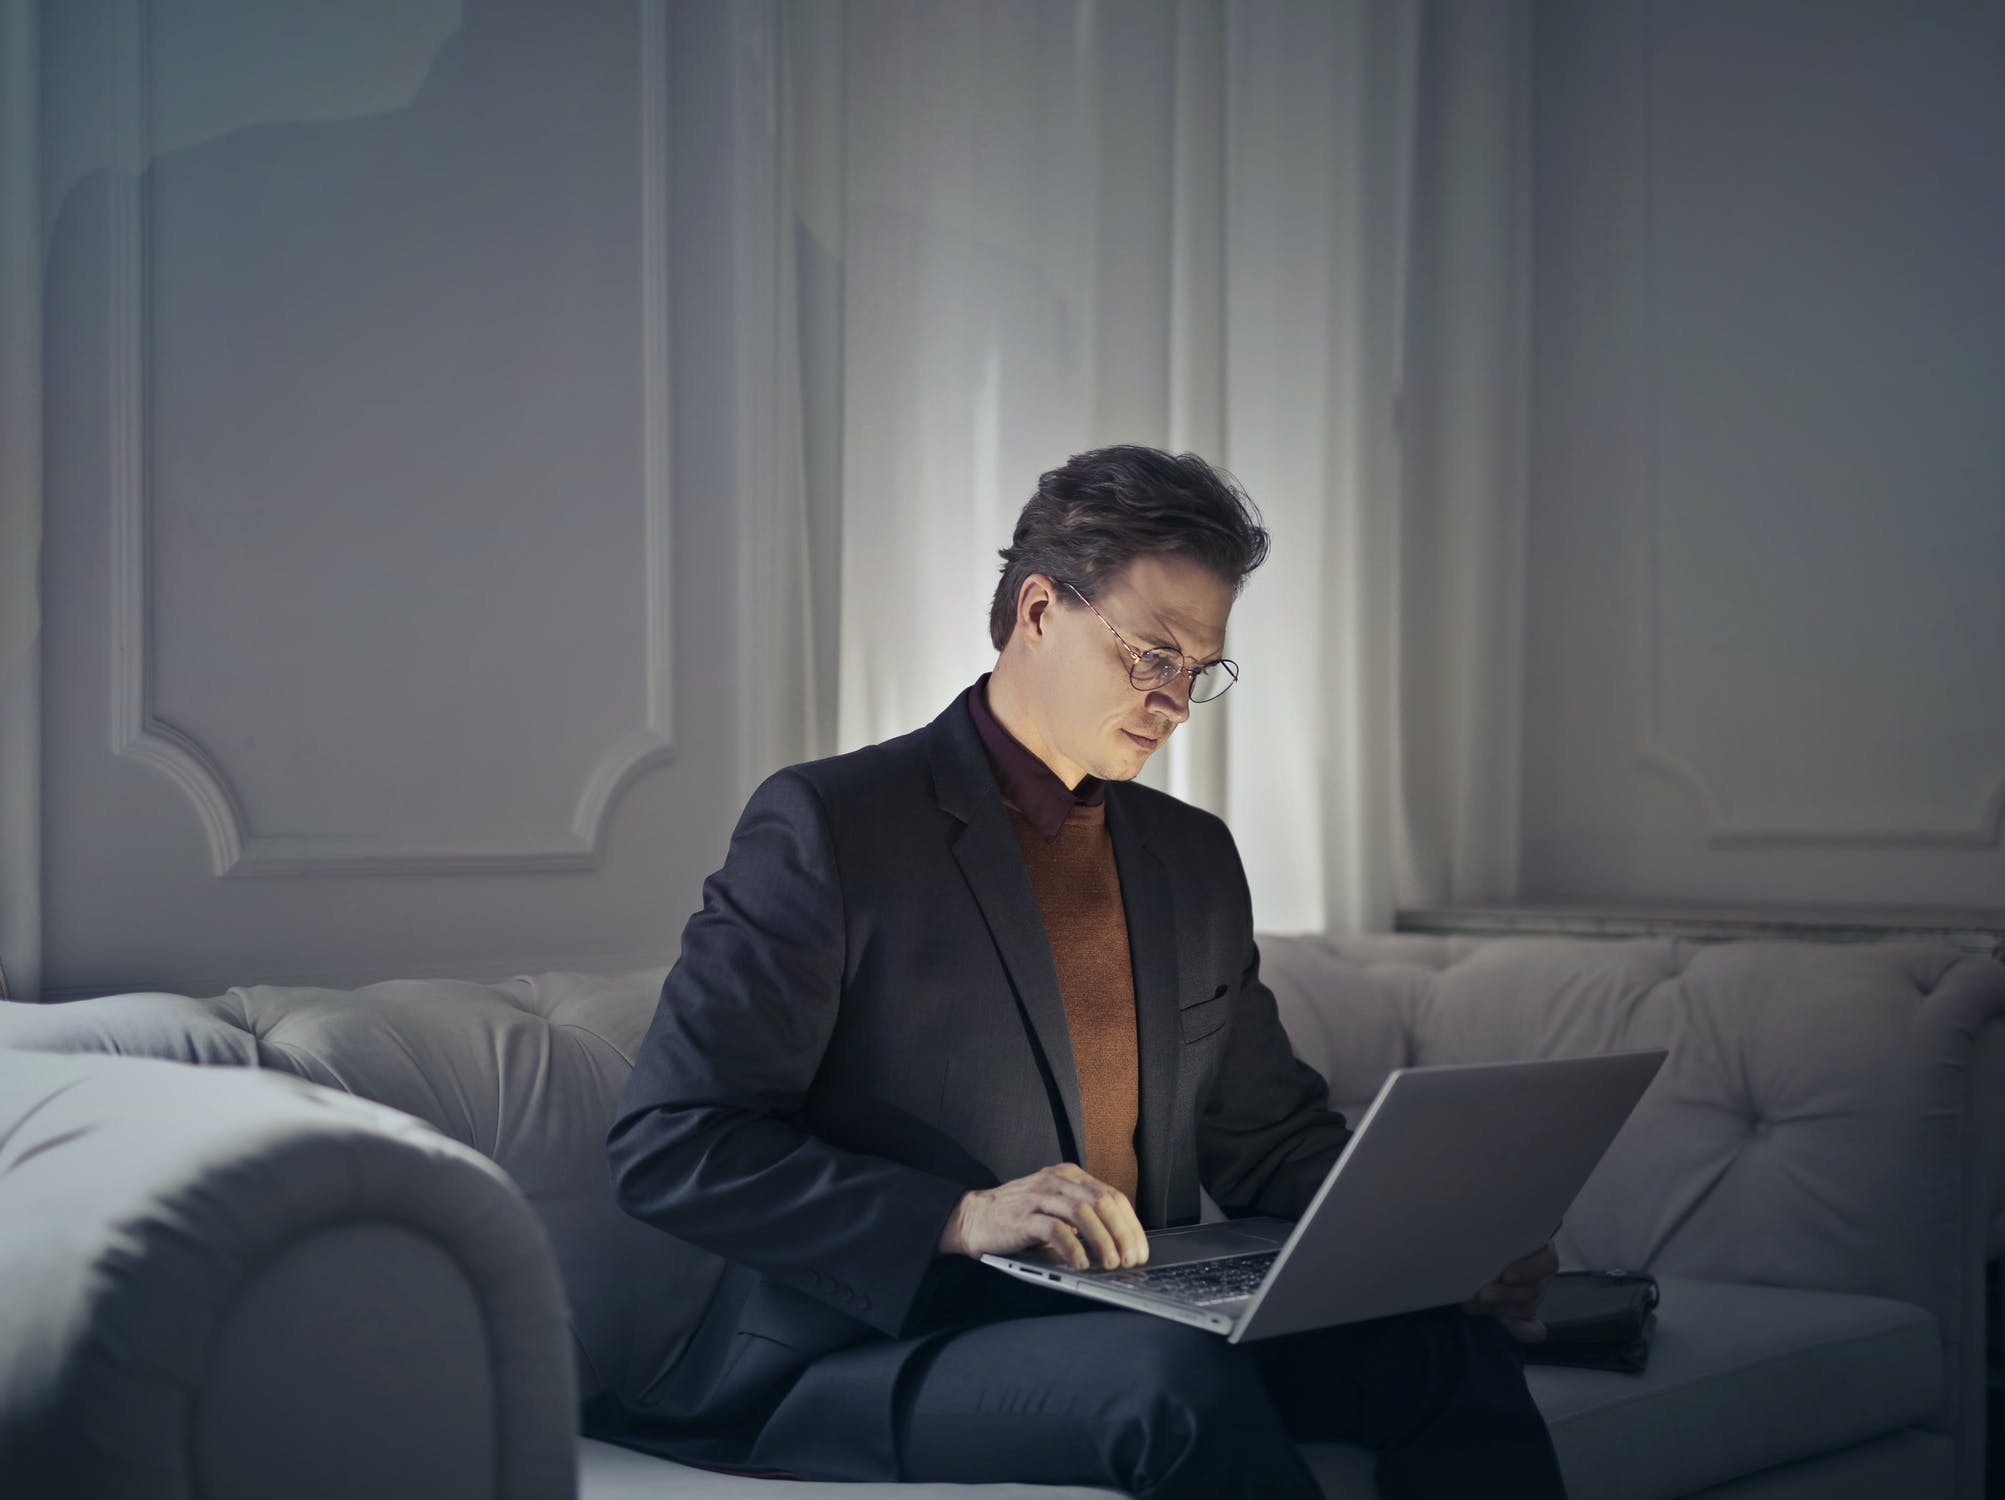
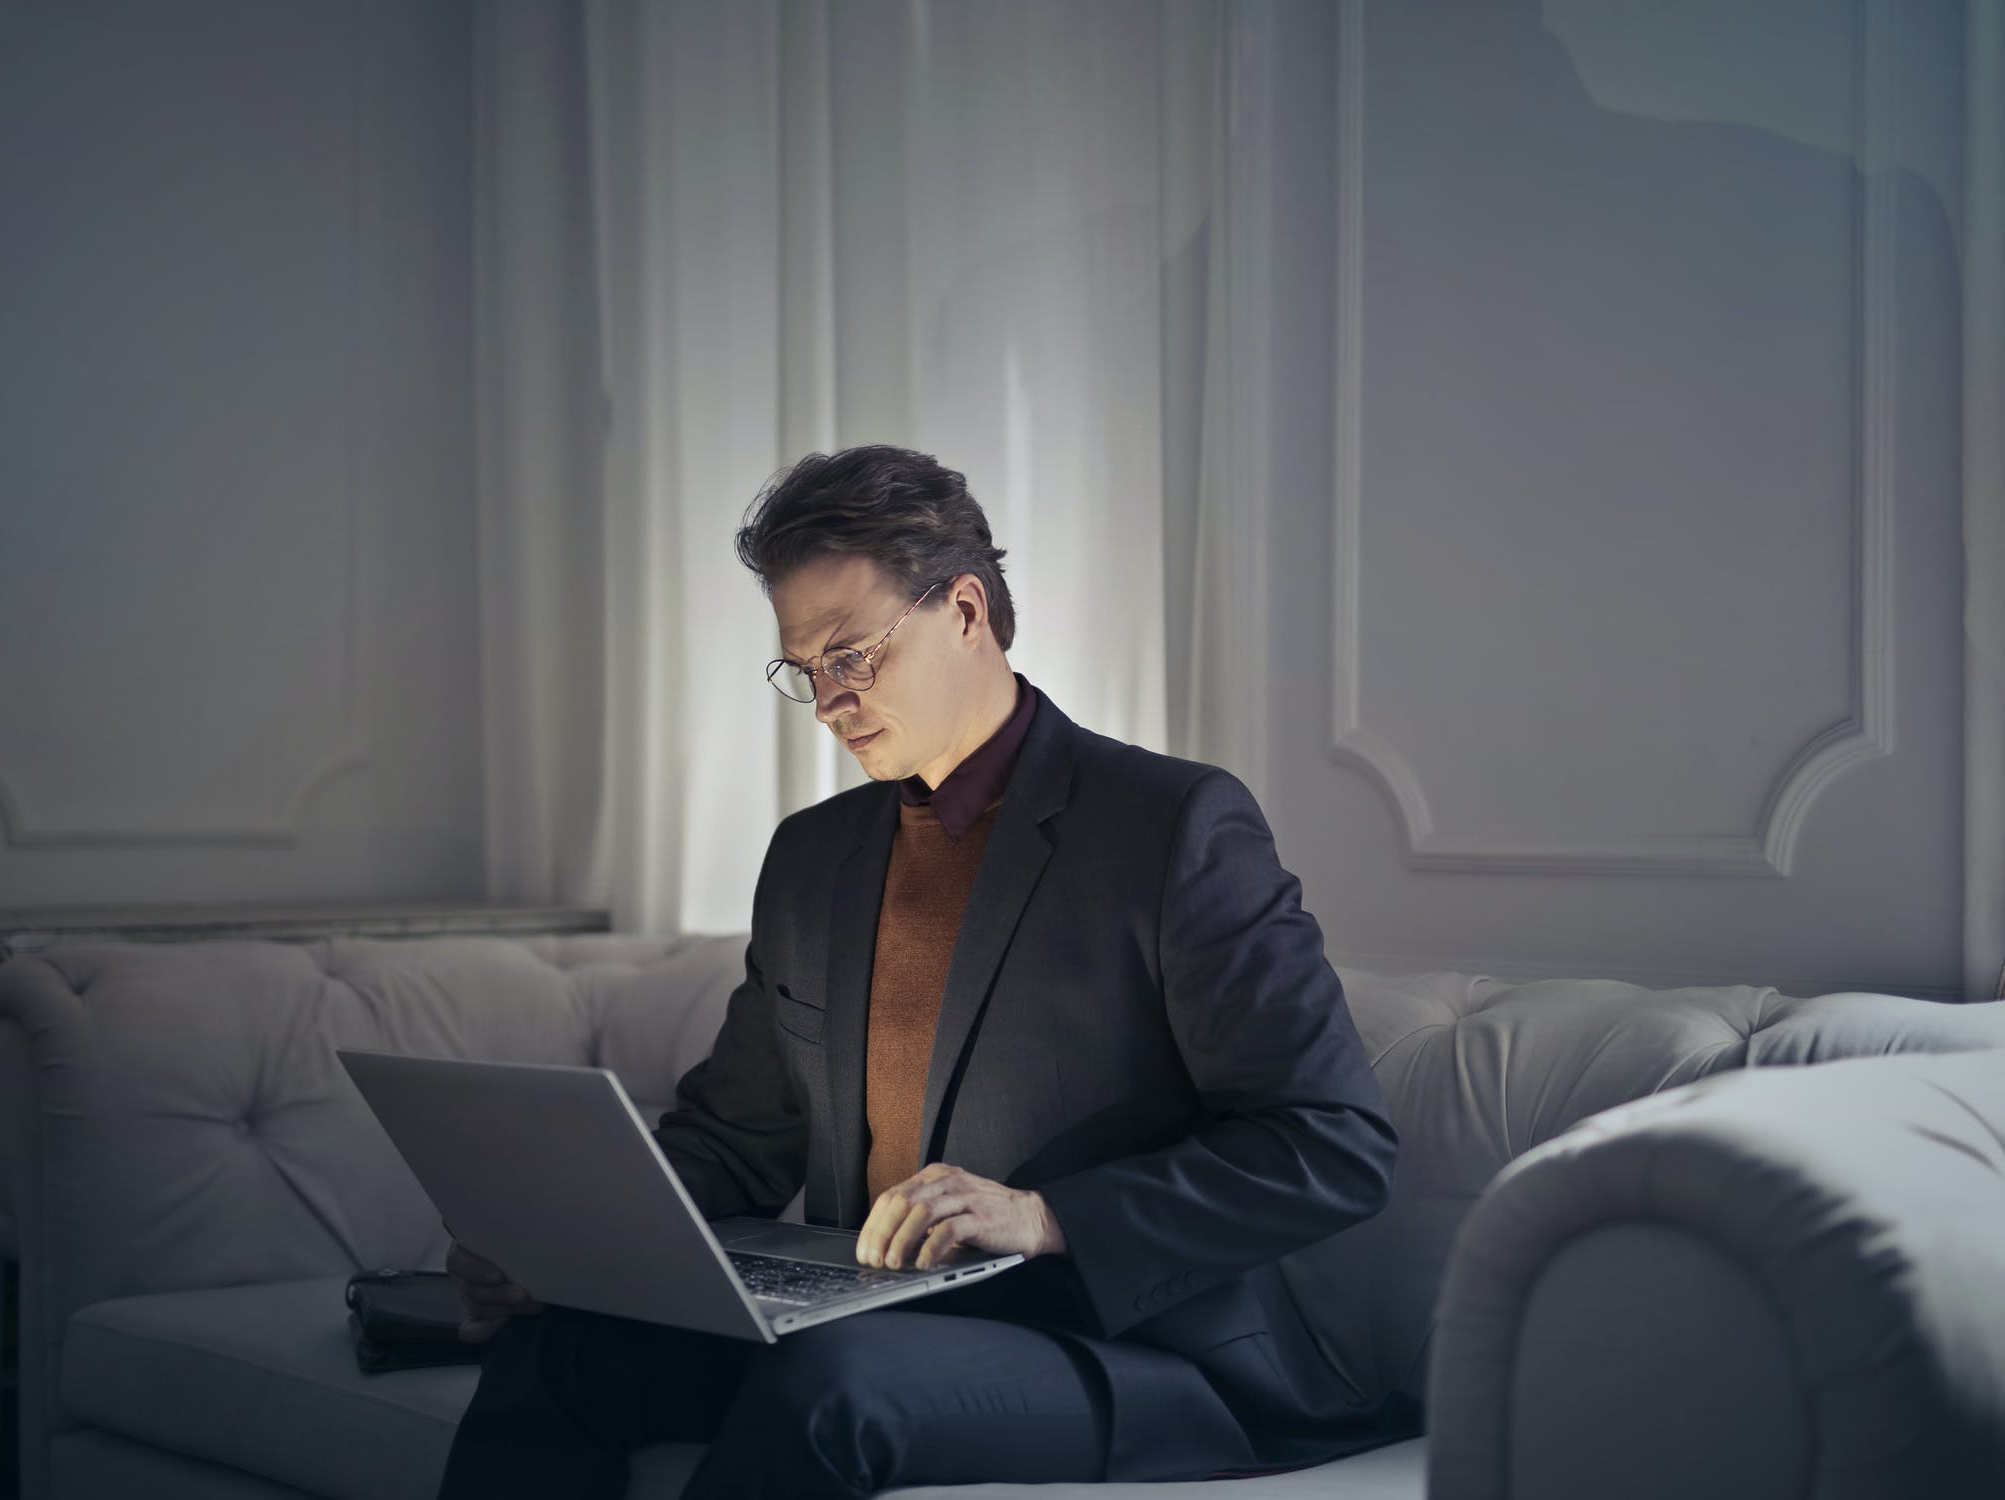
fix images cant show on github page

diff --git a/index.html b/index.html
@@ -186,7 +186,7 @@
                 <div class="container">
                     <div class="content">
                         <div class="box-img"><img class="bg-img"
-                                src="/assets/images/close-up-photography-of-man-wearing-sunglasses-1212984.png"
+                                src="assets/images/close-up-photography-of-man-wearing-sunglasses-1212984.png"
                                 alt="close up photography of man wearing sunglasses"></div>
                         <div class="box-content">
                             <p class="sub-title">Why we started</p>
@@ -206,7 +206,7 @@
                     <h2>List of Authors</h2>
                     <div class="list-box list-4">
                         <div class="list-item">
-                            <img src="/assets/images/man-in-yellow-button-up-shirt-wearing-black-framed-eyeglasses-7562313.png"
+                            <img src="assets/images/man-in-yellow-button-up-shirt-wearing-black-framed-eyeglasses-7562313.png"
                                 alt="avatar" class="avatar">
                             <h3>Floyd Miles</h3>
                             <p>Content Writer @Company</p>
@@ -230,7 +230,7 @@
                             </div>
                         </div>
                         <div class="list-item">
-                            <img src="/assets/images/woman-in-white-and-black-striped-shirt-wearing-black-sunglasses-3671083.png"
+                            <img src="assets/images/woman-in-white-and-black-striped-shirt-wearing-black-sunglasses-3671083.png"
                                 alt="avatar" class="avatar">
                             <h3>Dianne Russell</h3>
                             <p>Content Writer @Company</p>
@@ -254,7 +254,7 @@
                             </div>
                         </div>
                         <div class="list-item">
-                            <img src="/assets/images/fashion-woman-cute-shoes-5704849.png" alt="avatar" class="avatar">
+                            <img src="assets/images/fashion-woman-cute-shoes-5704849.png" alt="avatar" class="avatar">
                             <h3>Jenny Wilson</h3>
                             <p>Content Writer @Company</p>
                             <div class="infor">
@@ -277,7 +277,7 @@
                             </div>
                         </div>
                         <div class="list-item">
-                            <img src="/assets/images/content-baker-with-delicious-puff-in-cafeteria-6205509.png"
+                            <img src="assets/images/content-baker-with-delicious-puff-in-cafeteria-6205509.png"
                                 alt="avatar" class="avatar">
                             <h3>Leslie Alexander</h3>
                             <p>Content Writer @Company</p>
@@ -341,7 +341,7 @@
                                 <h4 class="user-text">Lorem ipsum dolor sit amet, consectetur adipiscing elit, sed do
                                     eiusmod tempor incididunt ut labore et dolore magna aliqua.</h4>
                                 <div class="profile">
-                                    <img src="/assets/images/profile-picture.png" alt="avatar" class="avatar">
+                                    <img src="assets/images/profile-picture.png" alt="avatar" class="avatar">
                                     <div class="address-box">
                                         <h4 class="name">Jonathan Vallem</h4>
                                         <address>New york, USA</address>

diff --git a/assets/css/style.css b/assets/css/style.css
@@ -311,11 +311,10 @@ a.button-header:hover {
     left: 0;
     bottom: 0;
     right: 0;
-    background-image: url('/assets/images/bg-1.png');
+    background-image: url(/advanced-blog/assets/images/bg-1.png);
     background-size: cover;
     background-position: center;
     background-repeat: no-repeat;
-    transform: scaleX(-1);
     filter: brightness(50%);
     z-index: -1;
 }
